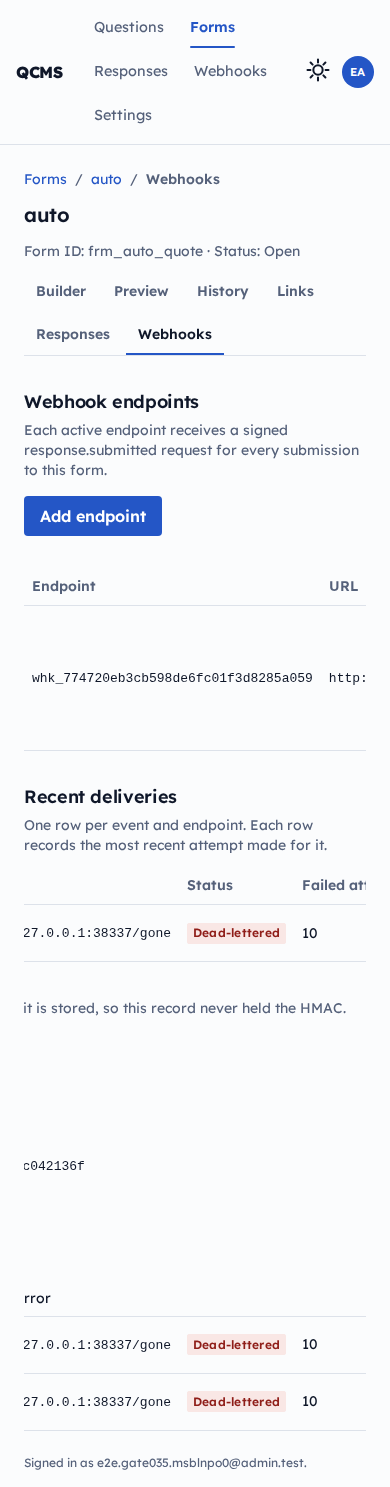
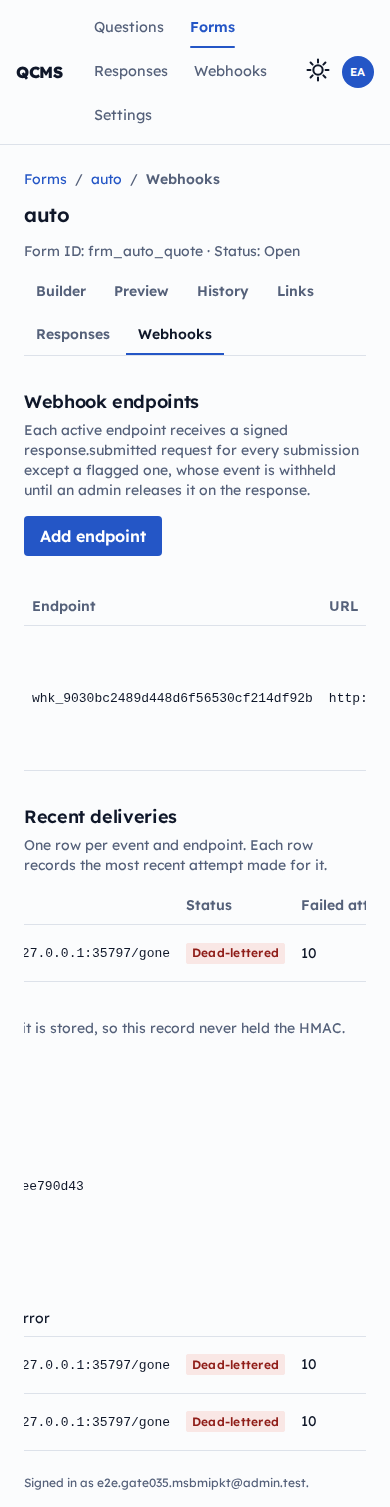
fix(admin): 035 state what webhook consumers actually receive, and pin it
The endpoints intro promised a signed request for "every submission to this
form". The submit slice enqueues `response.submitted` only when
`flaggedReason === undefined` (apps/api/src/features/responses/submit/handler.ts),
and this same change ships the unflag action whose premise is that a flagged
submission's event was withheld - so the sentence was disproved by its own diff.

Both surfaces that carry the claim now assert it: the operations arc checks the
rendered intro, and the gate capture refuses to photograph the screen without it.
Copy baked into a committed PNG cannot be fixed cheaply after the fact, so the
capture run is the last place a wrong sentence is still one word.

Re-shot the 24 frames that render it (webhooks-none, secret-reveal,
webhooks-table, delivery-detail x 3 modes x 2 viewports); the other 54 are
untouched.

diff --git a/apps/admin/e2e/responses-ops.pw.ts b/apps/admin/e2e/responses-ops.pw.ts
@@ -125,9 +125,9 @@ test.describe("admin operations: responses, erasure, webhooks", () => {
     await page.goto(`/forms/${FORM_ID}/responses/${revised}`);
     await expect(page.getByTestId("qcms-response-detail")).toBeVisible();
 
-    // Exit criterion 4. Four revisions were written: accident, then count three times
-    // (2, 3 at revise time, and the first count answer). The timeline shows every one
-    // of them, in order, and the LOCKED answer is only the last.
+    // Exit criterion 4. Three revisions were written: the accident answer, then the
+    // count twice (2, then 3). The timeline shows every one of them, in order, and the
+    // LOCKED answer is only the last.
     const entries = page.getByTestId("qcms-ledger").locator("li");
     await expect(entries).toHaveCount(3);
     await expect(entries.nth(0)).toHaveAttribute("data-question-id", ACCIDENT);
@@ -272,6 +272,16 @@ test.describe("admin operations: responses, erasure, webhooks", () => {
       //    Any endpoint an earlier spec left on this form is deactivated first, so the
       //    fan-out is exactly one endpoint wide and the counts below mean what they say.
       await deactivateExistingWebhooks(page, FORM_ID);
+
+      // The screen's own claim about what consumers receive, pinned. The submit slice
+      // enqueues `response.submitted` only for an unflagged submission
+      // (`apps/api/src/features/responses/submit/handler.ts`), and this task ships the
+      // unflag action whose whole premise is that a flagged one was withheld - so an
+      // intro promising "every submission" would be a sentence the same diff disproves.
+      // Asserted rather than reviewed, because that copy shipped once already.
+      await expect(page.getByTestId("qcms-webhook-config")).toContainText(
+        "withheld until an admin releases it",
+      );
       const broken = await deadUrl();
       await page.getByRole("button", { name: "Add endpoint" }).click();
       const create = page.getByTestId("qcms-webhook-url-dialog");

diff --git a/apps/admin/e2e/gate-screenshots-035.pw.ts b/apps/admin/e2e/gate-screenshots-035.pw.ts
@@ -150,6 +150,15 @@ for (const mode of CAPTURE_MODES) {
       //    and never given one, so this state is real in all three modes.
       await page.goto(`/forms/${EMPTY_FORM_ID}/webhooks`);
       await expect(page.getByTestId("qcms-webhooks-empty")).toBeVisible();
+      // Copy is BAKED into a committed PNG, so a capture run is the last place a wrong
+      // sentence can still be caught cheaply: after this, fixing one word costs a
+      // re-shoot and, if the Code Owner has already signed, a second gate round. This
+      // claim in particular shipped wrong once - it promised consumers "every
+      // submission" while the submit slice withholds a flagged one - so the capture now
+      // refuses to photograph the screen unless the corrected sentence is on it.
+      await expect(page.getByTestId("qcms-webhook-config")).toContainText(
+        "withheld until an admin releases it",
+      );
       await capture(page, `${mode}-webhooks-none`);
 
       // From here on, the insurance form, with any endpoint an earlier mode left behind

diff --git a/apps/admin/lib/i18n/en.ts b/apps/admin/lib/i18n/en.ts
@@ -927,8 +927,13 @@ export const messages = {
 
   // Webhook configuration.
   "ops.webhooks.heading": "Webhook endpoints",
+  // "except a flagged one" is not a hedge, it is what the submit slice does:
+  // `apps/api/src/features/responses/submit/handler.ts` enqueues `response.submitted`
+  // only when `flaggedReason === undefined`, and the release door is the unflag action
+  // on the response detail (`ops.detail.unflag`). The earlier wording promised "every
+  // submission", which this task's own unflag flow disproves.
   "ops.webhooks.intro":
-    "Each active endpoint receives a signed response.submitted request for every submission to this form.",
+    "Each active endpoint receives a signed response.submitted request for every submission except a flagged one, whose event is withheld until an admin releases it on the response.",
   "ops.webhooks.add": "Add endpoint",
   "ops.webhooks.addTitle": "Add a webhook endpoint",
   "ops.webhooks.url": "Endpoint URL",
